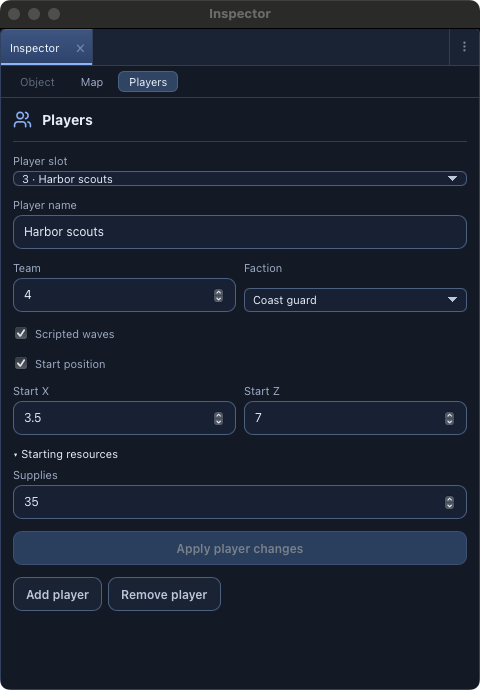
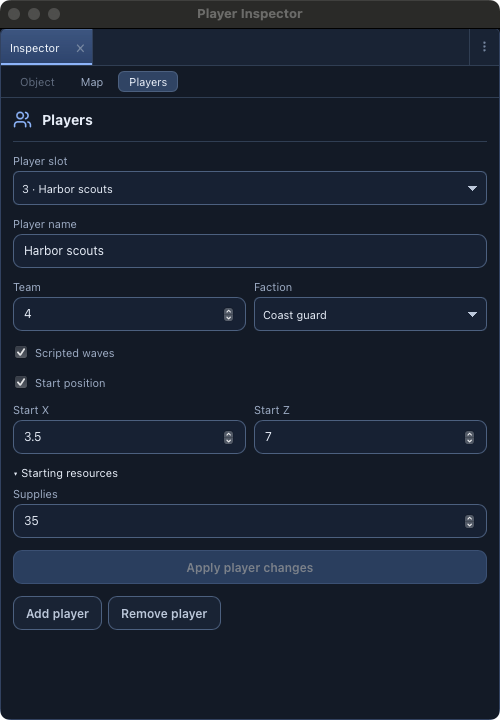
Record shared field dimensions and refresh detached Players capture

diff --git a/docs/handoff/studio-html5/studio-only-editor.md b/docs/handoff/studio-html5/studio-only-editor.md
@@ -336,3 +336,5 @@ Active map player Inspector stage. Reuse workspace player_set and player_remove 
 
 Player Inspector 0b8159e06e3f35cdd4d9a2527a92a88fe7443ebd. MapPlayers.tsx calls scoped studio.mapPlayer via StudioSession.cpp. Workspace player_set and player_remove own writes and MapDoc Undo. Added planet start objects and explicit clearing to player_set. Native studio_session validated edit, add, clear, remove, stale/invalid requests, owner remapping, restoration by Undo and planetary face bounds (studio-player-inspector-0b8159e06). Production web build and 294 web tests passed. Detached macOS QA created slot 3, set team 4, Coast guard, scripted waves, 35 supplies and start [3.5,7], then saved. Independently checked maps/range.json. Capture docs/devlog/media/2026-11-25-studio-player-inspector/player-inspector.png. Next use native Scene surface picking for player start placement; area/region, remaining parity, final Mac and Windows gates remain open.
 The preliminary binary built during edits used the older Workspace parameter validation and failed the out-of-face rejection. Recompiled the Workspace object and relinked both test and native host from the implementation commit before recording evidence.
+
+Shared field sizing ec58568e1db49a41e59cce2568c61282b8b0ca1c. apps/studio-web/src/ui/studio-ui.css. Screenshot inspection exposed a 15px unstyled dropdown beside a 34px input. Verified with production CSS in Chrome at 250px width: form select and input 34px, toolbar select 22px, range hit area 24px. Keyboard typeahead, decimal stepping, focus, disabled, forced colors and multi-select passed. Initial QA locator matched three selects after adding measurement fixtures; narrowed to the original widget and repeated all checks. Repeated WKWebView save and disk checks and captured the full detached Players window after assigning its QA window title. Scene-click start placement remains next.
